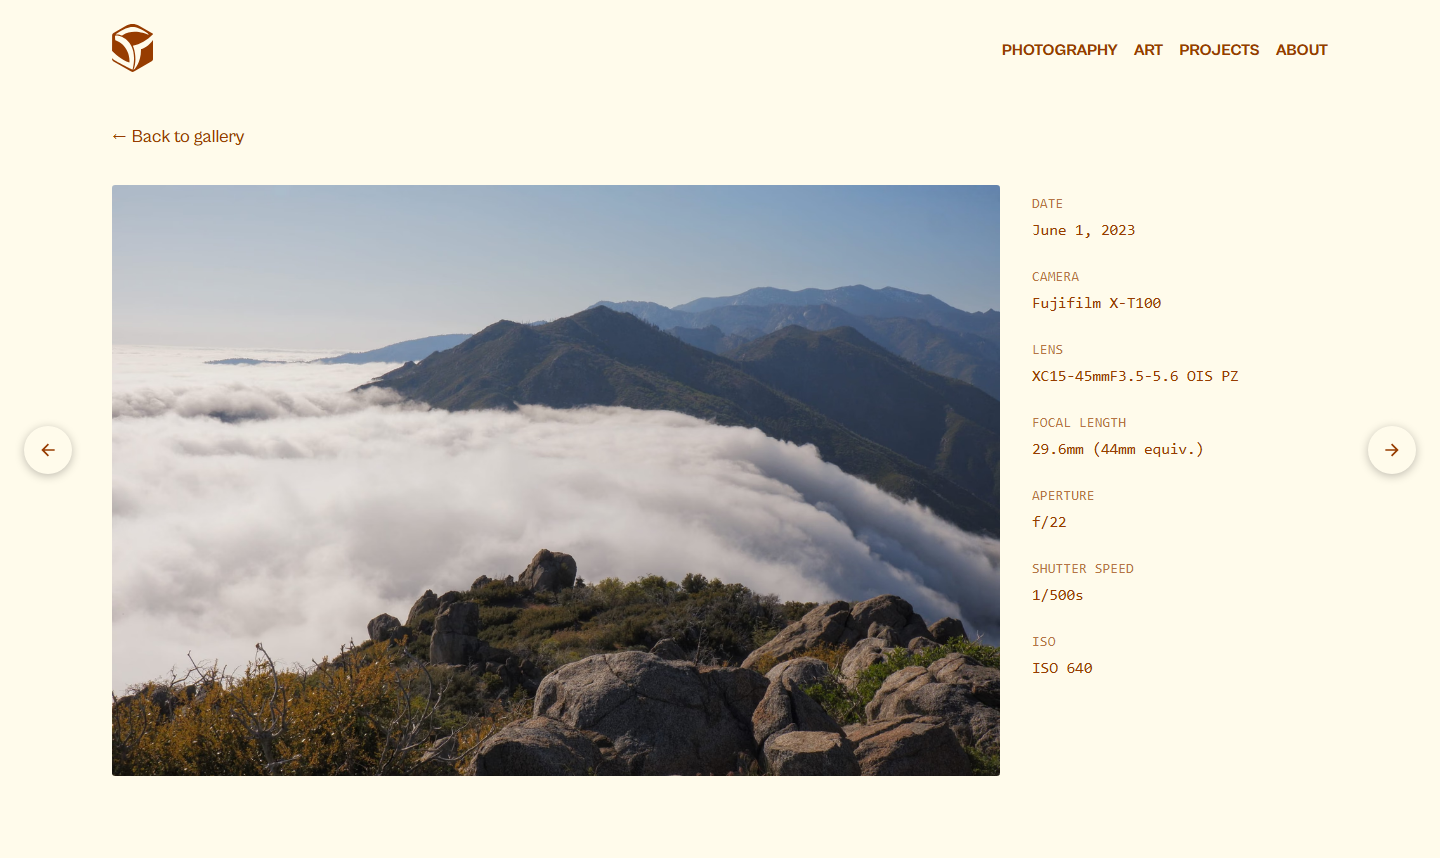
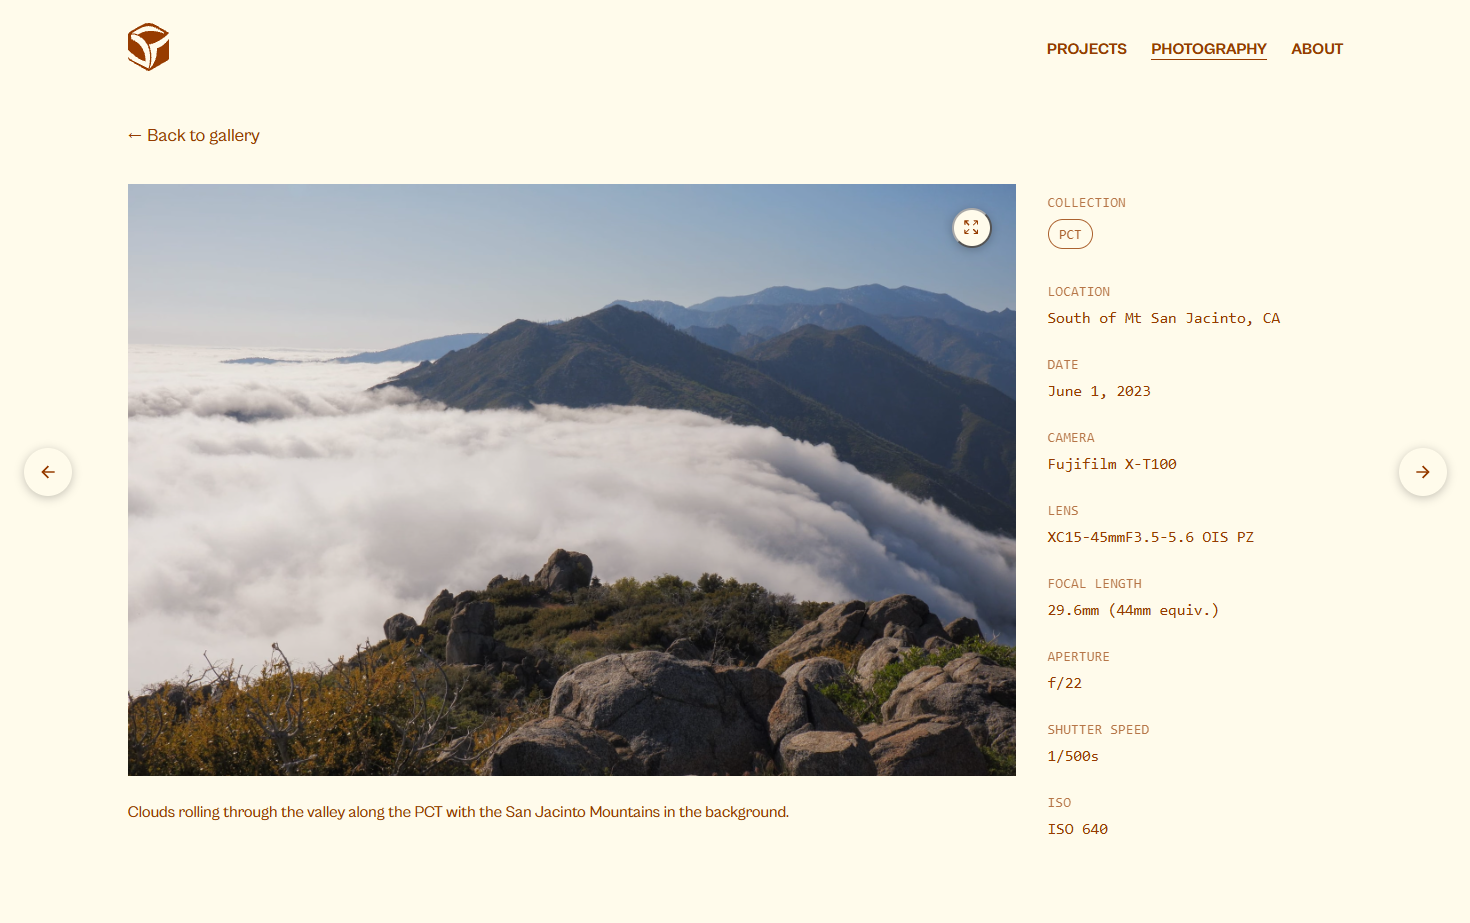
update project content, spacing, & layout

diff --git a/src/data/projects.ts b/src/data/projects.ts
@@ -8,7 +8,9 @@ import hyperliteLighthouse from "../assets/projects/hyperlite/lighthouse-report.
 
 import portfolioPuddle from "../assets/projects/portfolio-site/home-puddle.png";
 import portfolioPhotoExif from "../assets/projects/portfolio-site/photo-exif.png";
+import portfolioPhotoCollectionIndex from "../assets/projects/portfolio-site/photography-collections.png";
 import portfolioPhotographyIndex from "../assets/projects/portfolio-site/photography-index.png";
+import portfolioFooter from "../assets/projects/portfolio-site/footer.png";
 
 export interface ProjectImage {
   src: ImageMetadata;
@@ -85,7 +87,7 @@ export const projects: Project[] = [
       },
       {
         type: "text",
-        html: 'On top of that sits a working cart and checkout flow through Snipcart (Snipcart kept in test mode, but payments will succeed with test card 4242424242424242. See <a href="https://docs.snipcart.com/v3/testing/payments" target="_blank" rel="noopener noreferrer">docs</a> for more).',
+        html: 'On top of that sits a working cart and checkout flow through Snipcart (Snipcart is kept in test mode since nothing is actually being sold, but payments will succeed with test card 4242424242424242. See <a href="https://docs.snipcart.com/v3/testing/payments" target="_blank" rel="noopener noreferrer">docs</a> for more).',
       },
       {
         type: "image",
@@ -114,7 +116,11 @@ export const projects: Project[] = [
       },
       {
         type: "text",
-        html: 'I also used the project as a chance to try <a href="https://sugarcube.sh/" target="_blank" rel="noopener noreferrer">Sugarcube</a> for design tokens instead of hand-writing CSS variables. Colors, spacing, and type scale are defined once as tokens and Sugarcube generates the CSS variables and utility classes from them, so a change to a token (a brand color, a spacing step) propagates everywhere it\'s used instead of needing a find-and-replace across stylesheets. That matters more on a storefront than it sounds. Category pages, product pages, and cart UI all need to look like the same brand, and tokens keep them from drifting apart as the site grows.',
+        html: 'I also used the project as a chance to try <a href="https://sugarcube.sh/" target="_blank" rel="noopener noreferrer">Sugarcube</a> for design tokens instead of hand-writing CSS variables. Colors, spacing, and type scale are defined once as tokens and Sugarcube generates the CSS variables and utility classes from them, so a change to a token (a brand color, a spacing step) propagates everywhere it\'s used instead of needing a find-and-replace across stylesheets. This matters more and more as a codebase grows in size and complexity. Category pages, product pages, and cart UI all need to look like the same brand, and tokens keep them from drifting apart as the site grows.',
+      },
+      {
+        type: "text",
+        html: "Overall, I learned a lot about how to set up a basic ecommerce store, some of the tradeoffs that need to be made based on the site goals, and more about performance updates across the board. My time was definitely well spent on this project.",
       },
     ],
     cover: {
@@ -136,30 +142,40 @@ export const projects: Project[] = [
     content: [
       {
         type: "text",
-        html: "This is the site you're on. It's an Astro build for photography, a couple of art/side projects, and a resume. It's mostly static, so pages ship as fast HTML with only the interactive pieces (the puddle background, the photo lightbox) shipping their own JS.",
+        html: "This is the site you're on. It's an Astro build for photography, a couple of side projects, and a resume. It's mostly static, so pages ship as fast HTML with only the interactive pieces (the puddle background, the photo lightbox) shipping their own JS.",
       },
       {
         type: "image",
         image: {
           src: portfolioPuddle,
           alt: "Homepage of the portfolio site showing a dot-grid canvas background rippling outward from mouse movement.",
-          caption: "The puddle background mid-ripple, rendered to a single canvas instead of thousands of DOM nodes.",
+          caption:
+            "The puddle background mid-ripple, rendered to a single canvas instead of thousands of DOM nodes.",
         },
       },
       {
         type: "text",
-        html: 'The rippling dot grid on the homepage started from <a href="https://batmannair.com/puddle.js/" target="_blank" rel="noopener noreferrer">Puddle.js</a>, which renders each grid cell as its own DOM element. A typical viewport needs 1,000 to 4,500 or more cells, more elements and style recalculations than a browser can update at 60fps, so I rewrote it to render the whole grid to a single &lt;canvas&gt;, tracking force values in flat Float32Arrays and only redrawing cells whose neighbors changed on each tick. I leaned on <a href="https://emilkowal.ski/" target="_blank" rel="noopener noreferrer">Emil Kowalski</a>\'s writing on UI feel to tune it afterward: ripple strength that scales with screen size, snapping small forces to zero so ripples settle cleanly instead of trailing off forever, and respecting prefers-reduced-motion.',
+        html: 'The rippling dot grid on the homepage started from <a href="https://batmannair.com/puddle.js/" target="_blank" rel="noopener noreferrer">Puddle.js</a>, which renders each grid cell as its own DOM element. A typical viewport needs 1,000 to 4,500 or more cells, more elements and style recalculations than a browser can update at 60fps, so I rewrote it to render the whole grid to a single &lt;canvas&gt;, tracking force values in flat Float32Arrays and only redrawing cells whose neighbors changed on each tick. I leaned on <a href="https://emilkowal.ski/" target="_blank" rel="noopener noreferrer">Emil Kowalski</a>\'s writing on UI feel and his <a href="https://emilkowal.ski/skill" target="_blank" rel="noopener noreferrer">skills</a> to tune it afterward: ripple strength that scales with screen size, snapping small forces to zero so ripples settle cleanly instead of trailing off forever, and respecting prefers-reduced-motion.',
       },
       {
         type: "text",
-        html: "The photography section reads real EXIF data out of each JPEG at build time with exifr: camera, lens, focal length, aperture, shutter speed, ISO, and GPS coordinates. It formats that data for display next to the photo. The data comes straight from the file, so adding a new photo means dropping in a JPEG, not hand-typing camera settings.",
+        html: "The photography section reads real EXIF data out of each JPEG at build time with exifr: camera, lens, focal length, aperture, shutter speed, ISO, and GPS coordinates. It formats that data for display next to the photo. The data comes straight from the file, so adding a new photo means dropping in a JPEG, not hand-typing camera settings. Along with this locations, descriptions, and tags were added to each photo to provide more detail and to allow for showing images by collection.",
       },
       {
         type: "image",
         image: {
           src: portfolioPhotoExif,
           alt: "Photo detail page showing a mountain landscape alongside EXIF metadata: date, camera, lens, focal length, aperture, shutter speed, and ISO.",
-          caption: "EXIF metadata read from the JPEG at build time and rendered next to each photo.",
+          caption:
+            "EXIF metadata read from the JPEG at build time and rendered next to each photo.",
+        },
+      },
+      {
+        type: "image",
+        image: {
+          src: portfolioPhotoCollectionIndex,
+          alt: "Photo collections page showing photo collections grouped by user tags.",
+          caption: "Collection view of photos grouped by tags.",
         },
       },
       {
@@ -171,8 +187,25 @@ export const projects: Project[] = [
         image: {
           src: portfolioPhotographyIndex,
           alt: "Photography index page showing a masonry grid of landscape and hiking photos.",
-          caption: "The photography index, a masonry grid over the same photo set.",
+          caption:
+            "The photography index, a masonry grid over the same photo set.",
         },
+      },
+      {
+        type: "text",
+        html: "The footer also is a place with a nice touch. One of my photos with a mountain in it had the background removed and was converted into an svg shape to be used for the footer. The result is subtle, calculated, and fits into the site as a whole really well.",
+      },
+      {
+        type: "image",
+        image: {
+          src: portfolioFooter,
+          alt: "Footer mountain svg shape.",
+          caption: "The footer mountain svg shape.",
+        },
+      },
+      {
+        type: "text",
+        html: "I learned a lot about animations, writing code for good performance, and I had a blast making this site go from sketches and ideas to a reality. There are some improvements that can be made for sure, but it is in a great spot as I see it right now.",
       },
     ],
     cover: {

diff --git a/src/styles/blocks/prose.css b/src/styles/blocks/prose.css
@@ -157,3 +157,12 @@ CUSTOM PROPERTIES AND CONFIGURATION
   opacity: 0.7;
   background-size: 0% var(--stroke-width);
 }
+
+/* End mark / dingbat, placed after the final line of a piece of writing */
+.end-mark {
+  --flow-space: var(--space-xl, 2.5rem);
+  text-align: center;
+  letter-spacing: 0.5em;
+  font-size: var(--size-step-3);
+  opacity: 0.8;
+}

diff --git a/src/styles/blocks/masonry.css b/src/styles/blocks/masonry.css
@@ -9,13 +9,13 @@ without leaving gaps, the way a Pinterest-style grid does. */
 
 @media (min-width: 40rem) {
   .masonry-grid {
-    column-count: 2;
+    column-count: min(2, var(--photo-count, 2));
   }
 }
 
 @media (min-width: 60rem) {
   .masonry-grid {
-    column-count: 3;
+    column-count: min(3, var(--photo-count, 3));
   }
 }
 

diff --git a/src/styles/blocks/projects.css b/src/styles/blocks/projects.css
@@ -2,7 +2,8 @@
   list-style: none;
   display: grid;
   grid-template-columns: repeat(auto-fill, minmax(18rem, 1fr));
-  gap: var(--space-md-lg);
+  column-gap: var(--space-md-lg);
+  row-gap: var(--space-xl);
   padding-left: 0;
 }
 

diff --git a/src/styles/blocks/project-detail.css b/src/styles/blocks/project-detail.css
@@ -79,7 +79,8 @@
 }
 
 .project-detail__gallery-item {
-  margin: 0;
+  margin-inline: 0;
+  margin-block-end: 0;
 }
 
 .project-detail__gallery-image {
